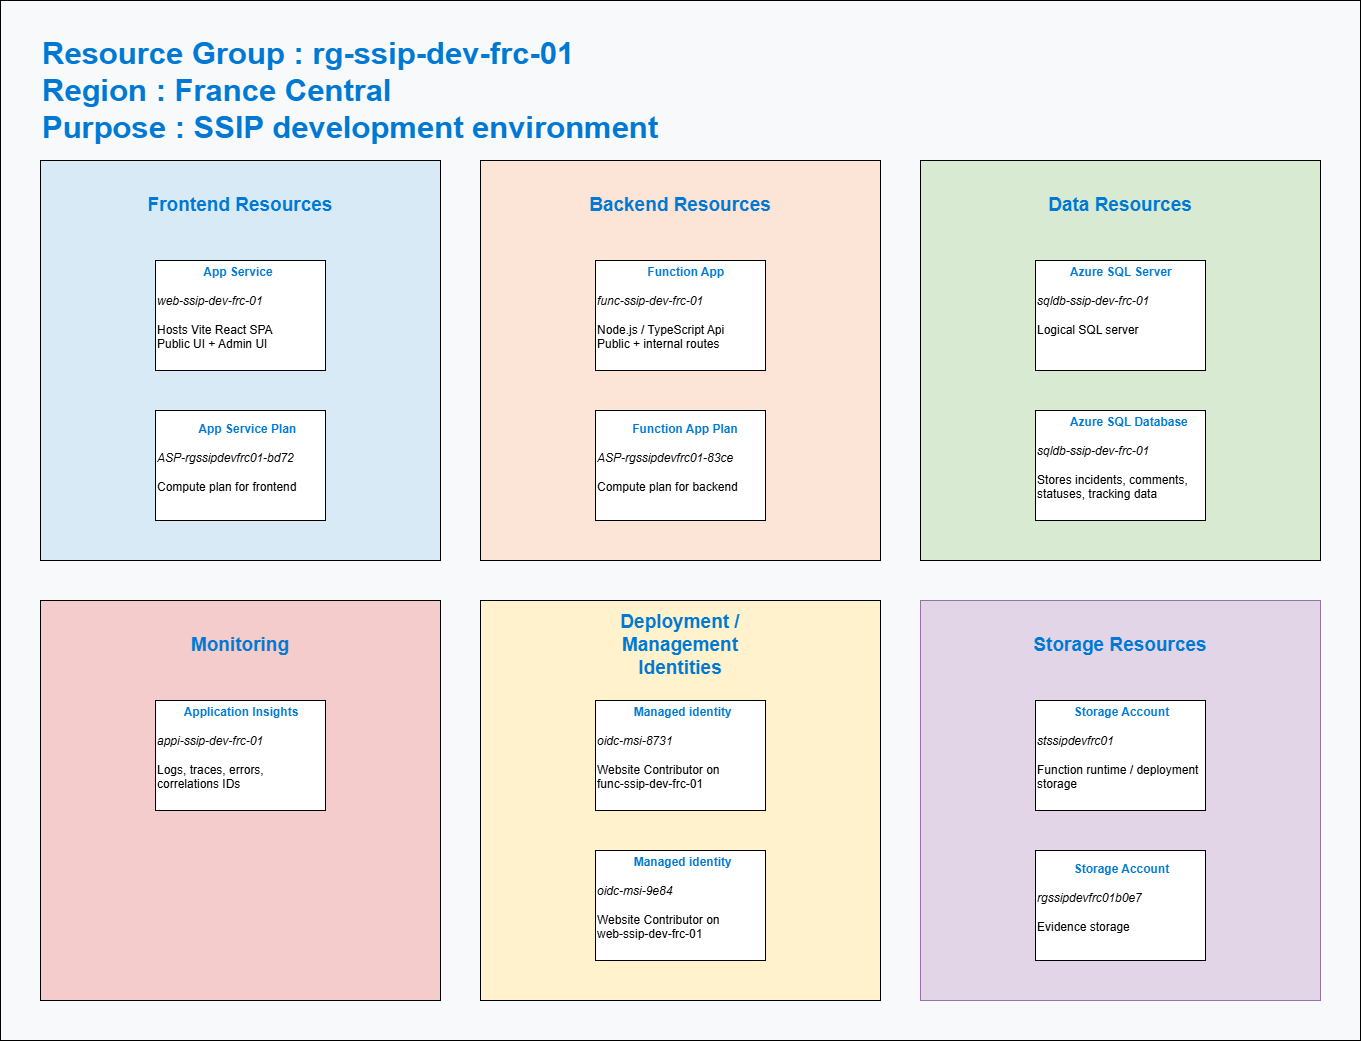
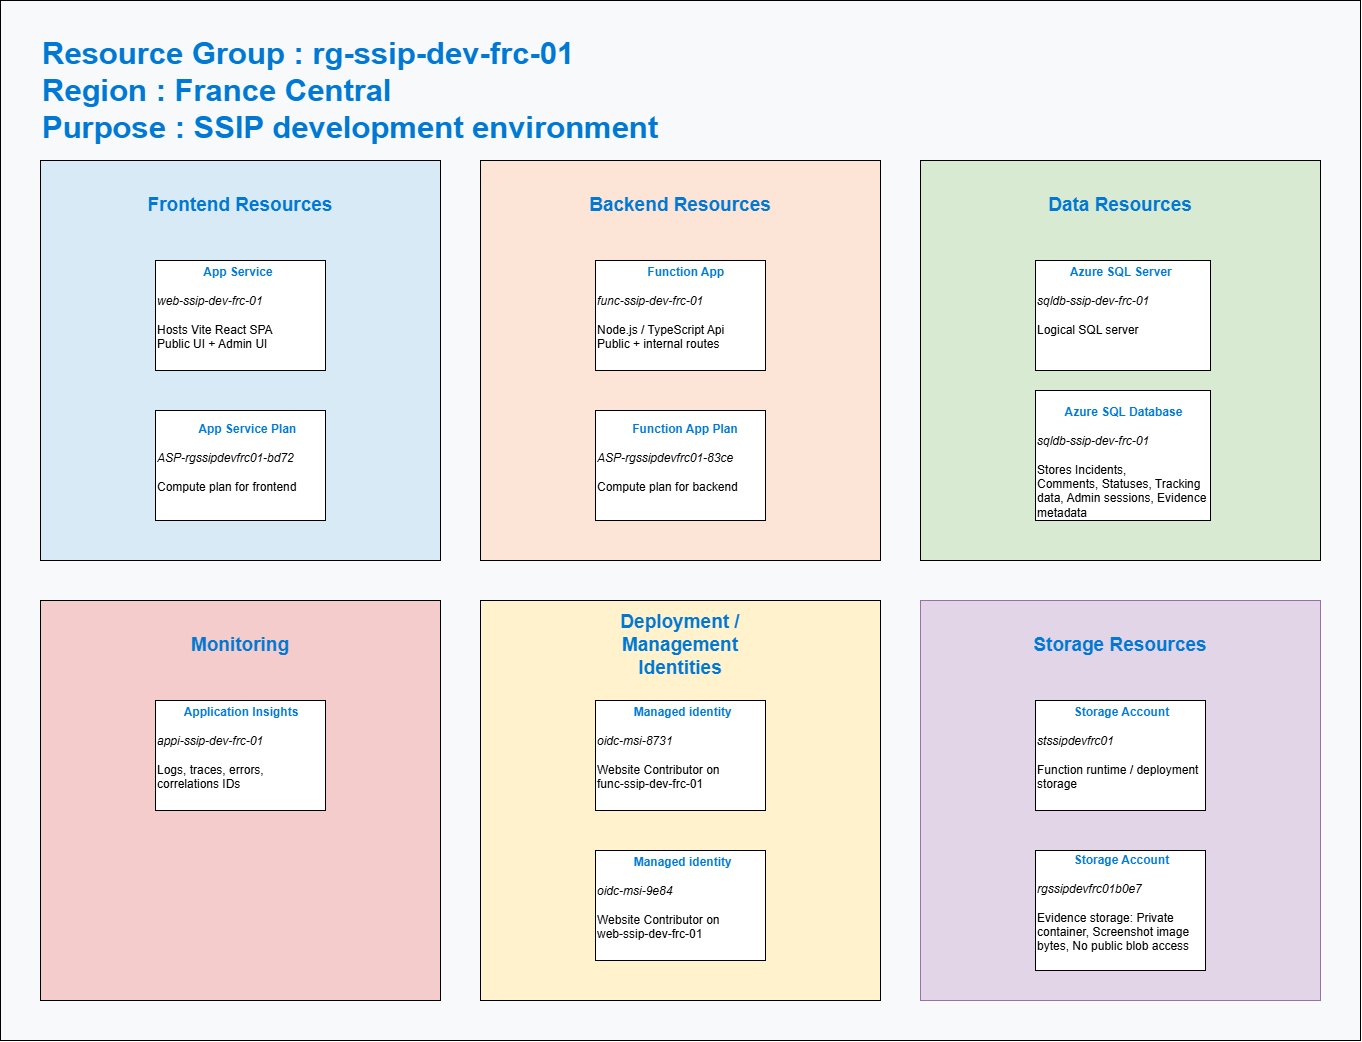
Skeleton loaders

diff --git a/src/frontend/src/features/admin/AdminIncidentDetailPage.tsx b/src/frontend/src/features/admin/AdminIncidentDetailPage.tsx
@@ -21,6 +21,13 @@ import type {
   ReferenceData,
 } from "../../api/adminApi";
 
+import {
+  LoadingBanner,
+  SkeletonBlock,
+  SkeletonCard,
+  SkeletonText,
+} from "../../components/Skeleton";
+
 import { clearAdminSession, setAdminSession } from "./adminSession";
 
 const styles: Record<string, CSSProperties> = {
@@ -558,20 +565,7 @@ export function AdminIncidentDetailPage() {
   }
 
   if (loading) {
-    return (
-      <section>
-        <div style={styles.info}>
-          <strong>Loading incident details...</strong>
-          <p style={{ margin: "8px 0 0", lineHeight: 1.5 }}>
-            The first request can take up to 60 seconds while Azure starts the
-            serverless backend and database. Please keep this page open.
-          </p>
-          <p style={{ margin: "8px 0 0", fontWeight: 800 }}>
-            Elapsed: {elapsedSeconds}s
-          </p>
-        </div>
-      </section>
-    );
+    return <CaseDetailSkeleton elapsedSeconds={elapsedSeconds} />;
   }
 
   if (!incident) {
@@ -916,6 +910,208 @@ function EvidenceItem({
         {loadingEvidenceId === item.evidenceId ? "Opening..." : "Open evidence"}
       </button>
     </article>
+  );
+}
+
+function CaseDetailSkeleton({ elapsedSeconds }: { elapsedSeconds: number }) {
+  return (
+    <section>
+      <LoadingBanner
+        title="Loading incident case"
+        message="SSIP is verifying the admin session and loading incident details, comments, evidence metadata, and triage controls."
+        elapsedSeconds={elapsedSeconds}
+      />
+
+      <header
+        className="ssip-admin-header"
+        style={{
+          ...styles.pageHeader,
+          marginBottom: "18px",
+        }}
+      >
+        <div style={{ flex: 1 }}>
+          <SkeletonBlock width="140px" height="13px" />
+          <SkeletonBlock
+            width="70%"
+            height="36px"
+            borderRadius="10px"
+            style={{ marginTop: "10px" }}
+          />
+          <SkeletonBlock
+            width="45%"
+            height="14px"
+            style={{ marginTop: "10px" }}
+          />
+        </div>
+
+        <div style={{ display: "flex", gap: "10px" }}>
+          <SkeletonBlock width="130px" height="40px" borderRadius="8px" />
+          <SkeletonBlock width="90px" height="40px" borderRadius="8px" />
+        </div>
+      </header>
+
+      <div className="ssip-admin-detail-layout" style={styles.layout}>
+        <div style={{ display: "grid", gap: "18px" }}>
+          <SkeletonCard>
+            <SkeletonBlock width="180px" height="20px" />
+
+            <div
+              style={{
+                display: "grid",
+                gridTemplateColumns: "repeat(2, minmax(0, 1fr))",
+                gap: "14px",
+              }}
+            >
+              {Array.from({ length: 8 }).map((_, index) => (
+                <div
+                  key={index}
+                  style={{
+                    border: "1px solid var(--ssip-border)",
+                    borderRadius: "10px",
+                    background: "#f8fbfe",
+                    padding: "12px",
+                  }}
+                >
+                  <SkeletonBlock width="45%" height="12px" />
+                  <SkeletonBlock
+                    width={index % 2 === 0 ? "70%" : "55%"}
+                    height="18px"
+                    borderRadius="8px"
+                    style={{ marginTop: "8px" }}
+                  />
+                </div>
+              ))}
+            </div>
+
+            <div
+              style={{
+                border: "1px solid var(--ssip-border)",
+                borderRadius: "10px",
+                background: "#f8fbfe",
+                padding: "14px",
+              }}
+            >
+              <SkeletonBlock width="120px" height="16px" />
+              <SkeletonText lines={5} style={{ marginTop: "12px" }} />
+            </div>
+          </SkeletonCard>
+
+          <SkeletonCard>
+            <div
+              style={{
+                display: "flex",
+                justifyContent: "space-between",
+                gap: "12px",
+                alignItems: "center",
+              }}
+            >
+              <SkeletonBlock width="120px" height="20px" />
+              <SkeletonBlock width="140px" height="40px" borderRadius="8px" />
+            </div>
+
+            <div style={{ display: "grid", gap: "12px" }}>
+              {Array.from({ length: 2 }).map((_, index) => (
+                <div
+                  key={index}
+                  style={{
+                    border: "1px solid var(--ssip-border)",
+                    borderLeft: "4px solid #0078d4",
+                    borderRadius: "10px",
+                    background: "#ffffff",
+                    padding: "14px",
+                  }}
+                >
+                  <SkeletonBlock width="50%" height="18px" />
+                  <SkeletonBlock
+                    width="80%"
+                    height="13px"
+                    style={{ marginTop: "10px" }}
+                  />
+                  <SkeletonBlock
+                    width="45%"
+                    height="13px"
+                    style={{ marginTop: "8px" }}
+                  />
+                  <SkeletonBlock
+                    width="120px"
+                    height="38px"
+                    borderRadius="8px"
+                    style={{ marginTop: "14px" }}
+                  />
+                </div>
+              ))}
+            </div>
+          </SkeletonCard>
+
+          <SkeletonCard>
+            <SkeletonBlock width="170px" height="20px" />
+
+            <div style={{ display: "grid", gap: "12px" }}>
+              {Array.from({ length: 3 }).map((_, index) => (
+                <div
+                  key={index}
+                  style={{
+                    border: "1px solid var(--ssip-border)",
+                    borderLeft: "4px solid #0078d4",
+                    borderRadius: "10px",
+                    background: "#ffffff",
+                    padding: "14px",
+                  }}
+                >
+                  <SkeletonText lines={2} />
+                  <SkeletonBlock
+                    width="40%"
+                    height="12px"
+                    style={{ marginTop: "10px" }}
+                  />
+                </div>
+              ))}
+            </div>
+
+            <SkeletonBlock width="100%" height="110px" borderRadius="10px" />
+            <SkeletonBlock width="190px" height="40px" borderRadius="8px" />
+          </SkeletonCard>
+        </div>
+
+        <aside style={{ display: "grid", gap: "18px", alignContent: "start" }}>
+          <SkeletonCard>
+            <SkeletonBlock width="150px" height="20px" />
+
+            <div style={{ display: "grid", gap: "14px" }}>
+              <SkeletonBlock width="100%" height="42px" borderRadius="8px" />
+              <SkeletonBlock width="100%" height="42px" borderRadius="8px" />
+              <SkeletonBlock width="100%" height="42px" borderRadius="8px" />
+              <SkeletonBlock width="180px" height="40px" borderRadius="8px" />
+            </div>
+          </SkeletonCard>
+
+          <SkeletonCard>
+            <SkeletonBlock width="180px" height="20px" />
+
+            <div style={{ display: "grid", gap: "12px" }}>
+              {Array.from({ length: 3 }).map((_, index) => (
+                <div
+                  key={index}
+                  style={{
+                    border: "1px solid var(--ssip-border)",
+                    borderRadius: "10px",
+                    background: "#f8fbfe",
+                    padding: "12px",
+                  }}
+                >
+                  <SkeletonBlock width="50%" height="12px" />
+                  <SkeletonBlock
+                    width="70%"
+                    height="18px"
+                    style={{ marginTop: "8px" }}
+                  />
+                </div>
+              ))}
+            </div>
+          </SkeletonCard>
+        </aside>
+      </div>
+    </section>
   );
 }
 

diff --git a/docs/SECURITY.md b/docs/SECURITY.md
@@ -26,3 +26,56 @@ This is expected.
 Local backend:
 
 src/api/local.settings.json
+
+## Evidence upload security
+
+SSIP supports controlled screenshot evidence upload.
+
+The feature is intentionally limited to reduce abuse risk, malware risk, privacy risk, and denial-of-wallet risk.
+
+### Public upload authorization
+
+Evidence upload requires both:
+- publicId
+- trackingToken
+
+The backend verifies the tracking token by hashing the submitted token and comparing it to the stored TrackingTokenHash.
+A public incident ID alone is not enough to upload evidence.
+This prevents someone from attaching files to an incident only by knowing or guessing the public incident ID.
+It  accepts only:
+- image/png
+- image/jpeg
+- image/webp
+
+The backend rejects unsupported formats such as:
+- SVG
+- PDF
+- Office documents
+- ZIP archives
+- executables
+- HTML
+- plain text
+
+### Size and count limits
+Evidence upload is limited to:
+- 5 MB
+- Maximum evidence files per incident: 3
+
+These limits reduce storage abuse, accidental large uploads, and denial-of-wallet risk.
+
+### Storage model
+Evidence files are stored in a private Azure Blob Storage container.
+
+SQL stores metadata only:
+- EvidenceId
+- IncidentId
+- OriginalFileName
+- BlobName
+- ContentType
+- FileSizeBytes
+- Sha256Hash
+- UploadedByType
+- UploadedUtc
+
+Blob names are generated server-side and do not rely on user-controlled filenames.
+The original filename is stored as metadata for admin usability, but it is not used as the blob path.

diff --git a/README.md b/README.md
@@ -19,6 +19,7 @@ I suggest having a look at the docs/images folders as it contains pictures of th
 - current-architecture
 - security-model
 - main-features
+- evidence upload
 - tech-stack
 - deployment-overview
 - admin-key-rotation
@@ -248,7 +249,28 @@ This keeps sensitive tokens out of the database in plaintext form.
 - No plaintext admin key stored in frontend storage.
 
 ---
+## Evidence upload
 
+SSIP supports optional screenshot evidence upload after an incident has been submitted.
+
+After a reporter receives their public incident ID and tracking token, the reporter can attach screenshots that help explain the issue. This is useful for cases such as phishing pages, suspicious login prompts, browser warnings, fake support messages, or other visible indicators.
+
+Evidence upload is intentionally limited to image screenshots only.
+
+Supported formats:
+
+
+- PNG
+- JPG / JPEG
+- WEBP
+
+Limits :
+- Maximum files per incident: 3
+- Maximum file size: 5 MB per image
+
+Evidence files are stored in private Azure Blob Storage. Evidence metadata is stored in Azure SQL in the IncidentEvidence table.
+Admins can view uploaded evidence from the incident detail page. The frontend does not receive public Azure Blob URLs, storage keys, or long-lived SAS URLs. Evidence is loaded through an authenticated backend endpoint and displayed in the browser as a temporary local blob: object URL.
+---
 ## Tech stack
 
 ### Frontend
